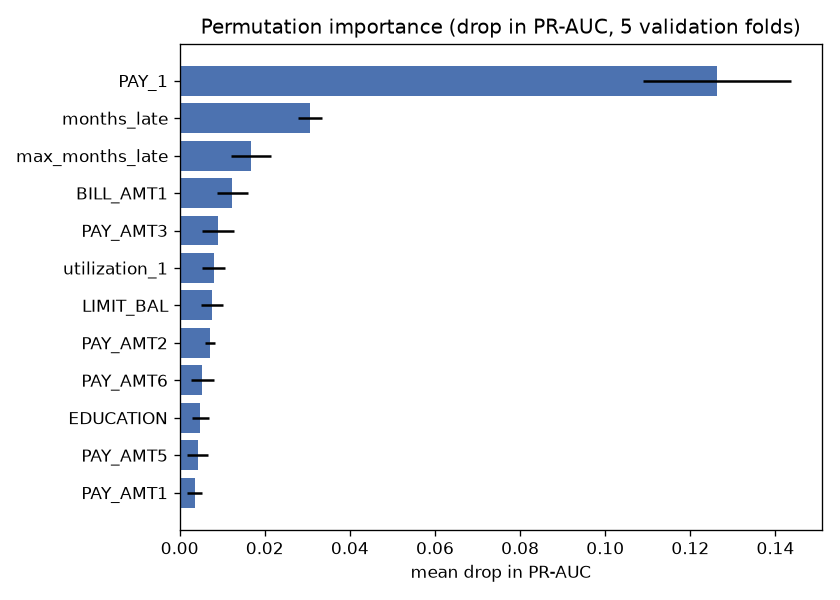
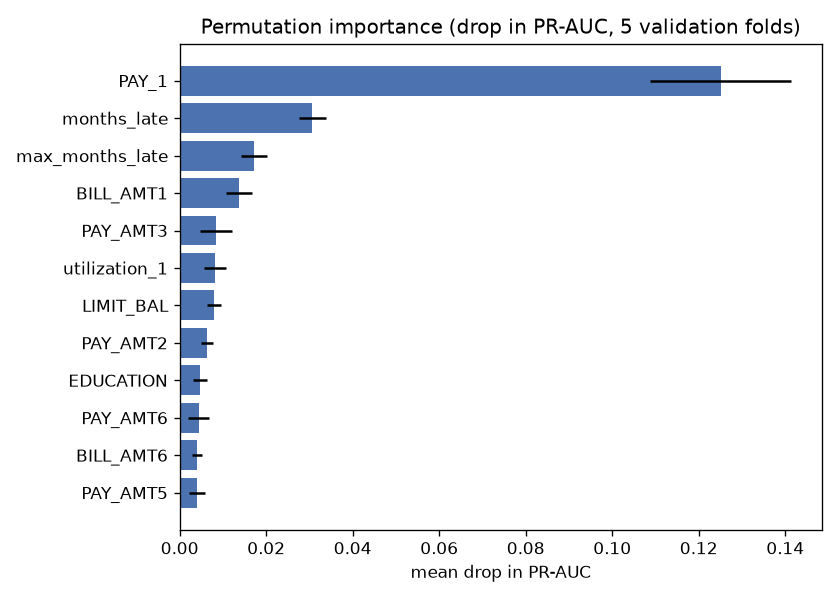
fix: retrain with corrected payment ratio; second, documented test evaluation
Version 1 results archived in reports/history/v1. The fix was adopted regardless of
its score; model ranking in CV unchanged. Corrected calibration and fairness claims,
permutation-importance caveat, bill correlation range.

diff --git a/reports/error_analysis.md b/reports/error_analysis.md
@@ -6,14 +6,14 @@ Every number here comes from out-of-fold predictions on the 24,000 training clie
 
 **Cost assumption:** missing a defaulter (false negative) costs 5 times as much as wrongly flagging a good client (false positive). A flagged client could be sent for manual review or given a lower limit; a missed defaulter is a written-off balance. The 5:1 ratio is an assumption to be replaced with the lender's real numbers.
 
-**Chosen threshold: 0.16.** It minimises the expected cost on a 0.01 grid. Decision theory gives the same answer: when probabilities are calibrated, the optimum is cost_FP / (cost_FP + cost_FN) = 1/6 ≈ 0.167. The model is well calibrated (mean predicted probability matches the observed default rate within 1 pp in every segment below).
+**Chosen threshold: 0.16.** It minimises the expected cost on a 0.01 grid. Decision theory gives the same answer: when probabilities are calibrated, the optimum is cost_FP / (cost_FP + cost_FN) = 1/6 ≈ 0.167. Overall, the model is well calibrated: the mean predicted probability is 0.220, against an observed default rate of 0.221.
 
 | At threshold 0.16 | Value |
 | --- | --- |
-| Recall (defaulters flagged) | 76.6% |
+| Recall (defaulters flagged) | 76.7% |
 | Precision (flagged clients who default) | 37.3% |
 | Clients flagged | 45.5% |
-| Cost per client | 0.544 |
+| Cost per client | 0.543 |
 | Cost per client with no model (approve everyone) | 1.106 |
 
 The model **cuts the expected cost of errors by 51%** compared with approving everyone. The price is that almost half of clients are flagged. The cost curve is flat between about 0.12 and 0.25, so a lender who can only review fewer clients loses little by raising the threshold a bit.
@@ -22,29 +22,39 @@ The model **cuts the expected cost of errors by 51%** compared with approving ev
 
 Permutation importance (drop in PR-AUC when a feature is shuffled, averaged over 5 validation folds):
 
-1. `PAY_1` (most recent repayment status) dominates: 0.126.
+1. `PAY_1` (most recent repayment status) dominates: 0.125.
 2. The two engineered features come next: `months_late` (0.031) and `max_months_late` (0.017). They summarise the 6-month repayment history and earn their place.
-3. Everything else is at most 0.012: last bill, payments, utilisation and the credit limit each add a little.
+3. Everything else is at most 0.014 (`BILL_AMT1`).
+
+**Caveat:** permutation importance measures what a feature adds *given all the others*. Strongly related features share their credit and each looks unimportant. The six bill amounts correlate at 0.93–0.95 month to month, and `PAY_1` overlaps with the engineered lateness features. So a low score for an individual bill amount does not mean the bills carry no information, only that any one of them is replaceable.
 
 The model is essentially a refined reading of repayment history. That is sensible for credit risk, and it is also its main weakness (below).
 
 ## Where the model is wrong
 
-1. **Defaulters with a clean history are the blind spot.** 1,242 of 5,309 defaulters (23%) are missed. 90.4% of those missed defaulters were never late in the last 6 months, although only 34.5% of all defaulters have a clean history. Among clients who were never late, the model catches only 38.6% of defaulters. These clients look identical to good clients in this data. Catching them would need new information (income changes, other debts, a bureau score), not a different algorithm.
+1. **Defaulters with a clean history are the blind spot.** 1,237 of 5,309 defaulters (23%) are missed. 90.6% of those missed defaulters were never late in the last 6 months, although only 34.5% of all defaulters have a clean history. Among clients who were never late, the model catches only 38.7% of defaulters. These clients look identical to good clients in this data. Catching them would need new information (income changes, other debts, a bureau score), not a different algorithm.
 
-2. **Anyone who was late is flagged, so most of the false alarms are there.** 87% of clients who were one month late are flagged, and 83% of the good clients among them, because a third of them do default. For clients two or more months late the model flags 99.8%. This is the cost assumption doing its job, but a lender would want a cheaper action than refusal for this group (a reminder, a lower limit).
+2. **Anyone who was late is flagged, so most of the false alarms are there.** 87% of clients who were one month late are flagged, and 83% of the good clients among them, because a third of them (34.4%) do default. For clients two or more months late the model flags 99.8%. This is the cost assumption doing its job, but a lender would want a cheaper action than refusal for this group (a reminder, a lower limit).
 
-3. **Low credit limits are flagged much more often.** In the lowest limit quintile 71% of clients are flagged and 64% of good clients are false alarms, against 20% in the highest quintile. The model follows the bank's own earlier risk judgement (the limit), which can entrench it.
+3. **Low credit limits are flagged much more often.** In the lowest limit quintile, 71% of clients are flagged and 63% of good clients are false alarms. In the highest quintile the figures are 25% and 20%. The model follows the bank's own earlier risk judgement (the limit), which can entrench it.
+
+## Calibration by segment
+
+In every segment defined by model inputs (repayment status, months late, credit-limit quintile, education), the mean predicted probability is within 0.8 percentage points of the observed default rate.
 
 ## Fairness audit
 
 Sex and age are not model inputs, but correlated features can still produce group differences.
 
-| Group | Default rate | Flagged | False positive rate | Mean predicted |
-| --- | --- | --- | --- | --- |
-| Female | 20.6% | 43.4% | 35.1% | 21.1% |
-| Male | 24.4% | 48.5% | 39.0% | 23.4% |
-| Age 21–25 | 26.9% | 58.6% | 50.0% | 27.1% |
-| Age 26–40 | 20.3% | 42.0% | 33.8% | 20.6% |
+| Group | Clients | Default rate | Mean predicted | Flagged | False positive rate |
+| --- | --- | --- | --- | --- | --- |
+| Female | 14,514 | 20.6% | 21.1% | 43.6% | 35.3% |
+| Male | 9,486 | 24.4% | 23.4% | 48.4% | 38.8% |
+| Age 21–25 | 3,104 | 26.9% | 27.1% | 58.3% | 49.6% |
+| Age 26–40 | 14,336 | 20.3% | 20.6% | 42.3% | 34.1% |
+| Age 41–60 | 6,346 | 23.8% | 22.5% | 46.4% | 36.6% |
+| Age 61+ | 214 | 27.6% | 25.1% | 49.5% | 36.8% |
 
-The model stays calibrated within each group. The flag-rate differences mostly follow the real difference in default rates. But good clients aged 21–25 are flagged half the time (50.0% false positive rate vs 33.8% for ages 26–40), mostly through their lower credit limits and shorter repayment records. This would need a documented review before any real use.
+- **Calibration differs a little by group.** The model slightly over-predicts for women (+0.5 pp) and under-predicts for men (−1.0 pp) and for ages 41–60 (−1.3 pp). With 6,346 clients aged 41–60 the sampling error is about ±0.5 pp, so that gap is probably real, though small. For ages 61+ the gap is −2.5 pp, but with only 214 clients its sampling error is about ±3.1 pp, so that gap cannot be distinguished from noise.
+- **Flag rates mostly follow the real differences in default rates.**
+- **Young clients bear more false alarms.** Good clients aged 21–25 are flagged half the time (49.6% false positive rate, against 34.1% for ages 26–40), mostly through their lower credit limits and shorter repayment records. This would need a documented review before any real use.

diff --git a/reports/error_analysis_tables.md b/reports/error_analysis_tables.md
@@ -6,70 +6,70 @@ Out-of-fold predictions on the training split, threshold 0.16. Recall = share of
 
 | feature | mean | std |
 | --- | --- | --- |
-| PAY_1 | 0.126 | 0.017 |
+| PAY_1 | 0.125 | 0.016 |
 | months_late | 0.031 | 0.003 |
-| max_months_late | 0.017 | 0.005 |
-| BILL_AMT1 | 0.012 | 0.004 |
-| PAY_AMT3 | 0.009 | 0.004 |
-| utilization_1 | 0.008 | 0.003 |
-| LIMIT_BAL | 0.008 | 0.003 |
-| PAY_AMT2 | 0.007 | 0.001 |
-| PAY_AMT6 | 0.005 | 0.003 |
+| max_months_late | 0.017 | 0.003 |
+| BILL_AMT1 | 0.014 | 0.003 |
+| PAY_AMT3 | 0.008 | 0.004 |
+| utilization_1 | 0.008 | 0.002 |
+| LIMIT_BAL | 0.008 | 0.002 |
+| PAY_AMT2 | 0.006 | 0.001 |
 | EDUCATION | 0.005 | 0.002 |
+| PAY_AMT6 | 0.004 | 0.002 |
+| BILL_AMT6 | 0.004 | 0.001 |
 | PAY_AMT5 | 0.004 | 0.002 |
-| PAY_AMT1 | 0.003 | 0.002 |
 
 ## Most recent repayment status (PAY_1)
 
 | segment | clients | default rate | flagged | recall | false positive rate | mean predicted |
 | --- | --- | --- | --- | --- | --- | --- |
-| paid / revolving (≤0) | 18,506 | 0.137 | 0.313 | 0.530 | 0.279 | 0.136 |
-| 1 month late | 3,000 | 0.344 | 0.874 | 0.954 | 0.832 | 0.344 |
-| 2+ months late | 2,494 | 0.697 | 0.998 | 0.999 | 0.995 | 0.693 |
+| paid / revolving (≤0) | 18,506 | 0.137 | 0.314 | 0.533 | 0.280 | 0.137 |
+| 1 month late | 3,000 | 0.344 | 0.872 | 0.953 | 0.830 | 0.343 |
+| 2+ months late | 2,494 | 0.697 | 0.998 | 0.999 | 0.995 | 0.692 |
 
 ## Months late in the last 6
 
 | segment | clients | default rate | flagged | recall | false positive rate | mean predicted |
 | --- | --- | --- | --- | --- | --- | --- |
-| never late | 15,896 | 0.115 | 0.224 | 0.386 | 0.203 | 0.114 |
-| 1-2 months | 5,104 | 0.330 | 0.855 | 0.932 | 0.817 | 0.328 |
-| 3-6 months | 3,000 | 0.599 | 0.995 | 0.998 | 0.990 | 0.600 |
+| never late | 15,896 | 0.115 | 0.224 | 0.387 | 0.203 | 0.114 |
+| 1-2 months | 5,104 | 0.330 | 0.858 | 0.934 | 0.820 | 0.328 |
+| 3-6 months | 3,000 | 0.599 | 0.995 | 0.997 | 0.993 | 0.600 |
 
 ## Credit limit quintile
 
 | segment | clients | default rate | flagged | recall | false positive rate | mean predicted |
 | --- | --- | --- | --- | --- | --- | --- |
-| Q1 lowest | 6,146 | 0.322 | 0.711 | 0.869 | 0.635 | 0.322 |
-| Q2 | 3,819 | 0.259 | 0.503 | 0.807 | 0.397 | 0.258 |
-| Q3 | 4,922 | 0.200 | 0.403 | 0.719 | 0.325 | 0.199 |
-| Q4 | 4,380 | 0.169 | 0.336 | 0.652 | 0.272 | 0.165 |
-| Q5 highest | 4,733 | 0.131 | 0.246 | 0.583 | 0.195 | 0.130 |
+| Q1 lowest | 6,146 | 0.322 | 0.708 | 0.877 | 0.628 | 0.322 |
+| Q2 | 3,819 | 0.259 | 0.506 | 0.800 | 0.403 | 0.259 |
+| Q3 | 4,922 | 0.200 | 0.404 | 0.715 | 0.326 | 0.198 |
+| Q4 | 4,380 | 0.169 | 0.338 | 0.659 | 0.273 | 0.165 |
+| Q5 highest | 4,733 | 0.131 | 0.247 | 0.575 | 0.198 | 0.130 |
 
 ## Education
 
 | segment | clients | default rate | flagged | recall | false positive rate | mean predicted |
 | --- | --- | --- | --- | --- | --- | --- |
-| graduate school | 8,455 | 0.193 | 0.405 | 0.735 | 0.326 | 0.191 |
-| high school | 3,903 | 0.250 | 0.504 | 0.798 | 0.406 | 0.250 |
-| other | 386 | 0.073 | 0.111 | 0.179 | 0.106 | 0.082 |
-| university | 11,256 | 0.238 | 0.487 | 0.780 | 0.395 | 0.236 |
+| graduate school | 8,455 | 0.193 | 0.403 | 0.732 | 0.324 | 0.192 |
+| high school | 3,903 | 0.250 | 0.503 | 0.802 | 0.403 | 0.250 |
+| other | 386 | 0.073 | 0.117 | 0.179 | 0.112 | 0.081 |
+| university | 11,256 | 0.238 | 0.489 | 0.782 | 0.398 | 0.236 |
 
 ## Sex (not a model input; fairness audit)
 
 | segment | clients | default rate | flagged | recall | false positive rate | mean predicted |
 | --- | --- | --- | --- | --- | --- | --- |
-| female | 14,514 | 0.206 | 0.434 | 0.755 | 0.351 | 0.211 |
-| male | 9,486 | 0.244 | 0.485 | 0.780 | 0.390 | 0.234 |
+| female | 14,514 | 0.206 | 0.436 | 0.755 | 0.353 | 0.211 |
+| male | 9,486 | 0.244 | 0.484 | 0.782 | 0.388 | 0.234 |
 
 ## Age band (not a model input; fairness audit)
 
 | segment | clients | default rate | flagged | recall | false positive rate | mean predicted |
 | --- | --- | --- | --- | --- | --- | --- |
-| 21-25 | 3,104 | 0.269 | 0.586 | 0.819 | 0.500 | 0.271 |
-| 26-40 | 14,336 | 0.203 | 0.420 | 0.744 | 0.338 | 0.206 |
-| 41-60 | 6,346 | 0.238 | 0.466 | 0.777 | 0.369 | 0.225 |
-| 61+ | 214 | 0.276 | 0.505 | 0.814 | 0.387 | 0.252 |
+| 21-25 | 3,104 | 0.269 | 0.583 | 0.819 | 0.496 | 0.271 |
+| 26-40 | 14,336 | 0.203 | 0.423 | 0.745 | 0.341 | 0.206 |
+| 41-60 | 6,346 | 0.238 | 0.464 | 0.778 | 0.366 | 0.225 |
+| 61+ | 214 | 0.276 | 0.495 | 0.831 | 0.368 | 0.251 |
 
 ## Missed defaulters
 
-1242 of 5309 defaulters were not flagged. 90.4% of them were never late in the last 6 months (vs 34.5% of all defaulters).
+1237 of 5309 defaulters were not flagged. 90.6% of them were never late in the last 6 months (vs 34.5% of all defaulters).

diff --git a/reports/eda.md b/reports/eda.md
@@ -12,7 +12,7 @@
 
 4. **The categorical codes do not match the dataset documentation.** `EDUCATION` has the undocumented values 0, 5 and 6 (289 rows, 1.2%). `MARRIAGE` has an undocumented 0 (47 rows). `PAY_*` uses −2 and 0, which the documentation does not define; they appear to mean "no balance" and "revolving credit, paid the minimum". The rare undocumented codes are merged into the existing "other" categories (`EDUCATION` → 4, `MARRIAGE` → 3). This is done in shared code so training and serving clean the data the same way.
 
-5. **The monthly amounts are redundant and heavily skewed.** Bills in adjacent months correlate at 0.95 (0.80 between month 1 and month 6). Payments are very skewed (`PAY_AMT1` skewness 15.3). 6.5% of clients have a negative bill in at least one month (an overpayment). The linear model gets a signed log transform and L2 regularisation; tree models are unaffected by either. See `correlations.png`.
+5. **The monthly amounts are redundant and heavily skewed.** Bills in adjacent months correlate at 0.93–0.95 (0.80 between month 1 and month 6). Payments are very skewed (`PAY_AMT1` skewness 15.3). 6.5% of clients have a negative bill in at least one month (an overpayment). A payment settles the *previous* month's statement: `PAY_AMT1` equals `BILL_AMT2` exactly for 15.2% of clients with a positive bill, but equals `BILL_AMT1` for only 2.4%. Payment-to-bill features must pair each payment with the previous month's bill (found after the first evaluation; see `history/v1/`). The linear model gets a signed log transform and L2 regularisation; tree models are unaffected by either. See `correlations.png`.
 
 6. **Sensitive attributes carry signal and need an explicit decision.** Men default at 24.4% and women at 20.6%. The youngest (21–25: 26.9%) and oldest (60+: 27.6%) age bands are riskier than 26–40 (20.2–20.3%). Using sex or marital status in a credit decision is restricted or prohibited in many jurisdictions. Cross-validation reports the chosen model both with and without `SEX`, `MARRIAGE` and `AGE`, so the trade-off is measured rather than assumed.
 

diff --git a/reports/cv_results.md b/reports/cv_results.md
@@ -5,8 +5,8 @@ Mean ± standard deviation over the 5 folds. F1, recall and precision use the de
 | Model | PR-AUC | ROC-AUC | F1@0.5 | Recall@0.5 | Precision@0.5 | Time (s) |
 | --- | --- | --- | --- | --- | --- | --- |
 | baseline (prior) | 0.221 ± 0.000 | 0.500 ± 0.000 | 0.000 ± 0.000 | 0.000 ± 0.000 | 0.000 ± 0.000 | 1 |
-| logistic regression | 0.515 ± 0.012 | 0.765 ± 0.007 | 0.420 ± 0.019 | 0.311 ± 0.018 | 0.647 ± 0.021 | 1 |
-| random forest | 0.556 ± 0.009 | 0.782 ± 0.008 | 0.477 ± 0.019 | 0.370 ± 0.021 | 0.675 ± 0.013 | 34 |
-| xgboost | 0.561 ± 0.012 | 0.784 ± 0.005 | 0.479 ± 0.019 | 0.373 ± 0.019 | 0.670 ± 0.015 | 6 |
-| logistic regression, without SEX/MARRIAGE/AGE | 0.513 ± 0.012 | 0.764 ± 0.007 | 0.418 ± 0.019 | 0.308 ± 0.018 | 0.648 ± 0.021 | 1 |
-| xgboost, without SEX/MARRIAGE/AGE | 0.560 ± 0.011 | 0.783 ± 0.005 | 0.478 ± 0.014 | 0.370 ± 0.015 | 0.676 ± 0.014 | 5 |
+| logistic regression | 0.515 ± 0.012 | 0.764 ± 0.007 | 0.419 ± 0.020 | 0.310 ± 0.019 | 0.646 ± 0.021 | 1 |
+| random forest | 0.555 ± 0.011 | 0.782 ± 0.007 | 0.478 ± 0.017 | 0.370 ± 0.017 | 0.674 ± 0.012 | 34 |
+| xgboost | 0.560 ± 0.012 | 0.784 ± 0.005 | 0.482 ± 0.015 | 0.376 ± 0.017 | 0.674 ± 0.012 | 6 |
+| logistic regression, without SEX/MARRIAGE/AGE | 0.513 ± 0.012 | 0.763 ± 0.008 | 0.417 ± 0.020 | 0.308 ± 0.018 | 0.648 ± 0.024 | 1 |
+| xgboost, without SEX/MARRIAGE/AGE | 0.560 ± 0.012 | 0.783 ± 0.005 | 0.474 ± 0.017 | 0.366 ± 0.018 | 0.672 ± 0.016 | 5 |
